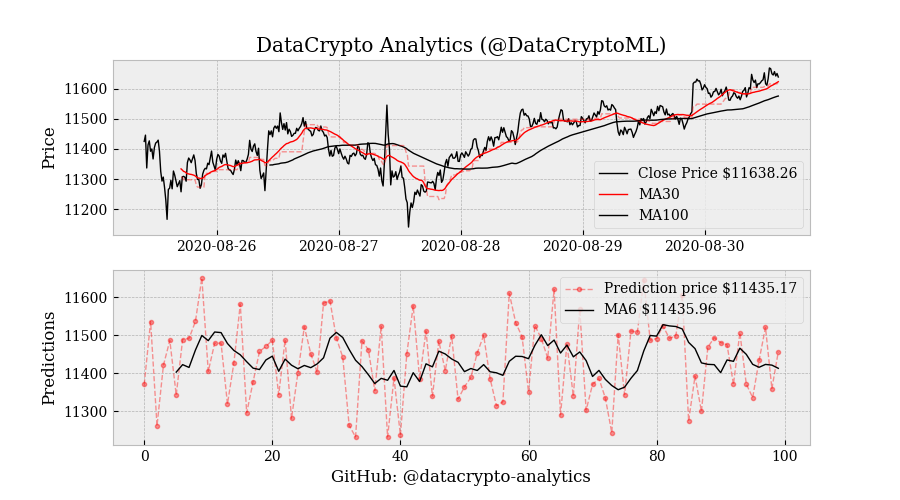
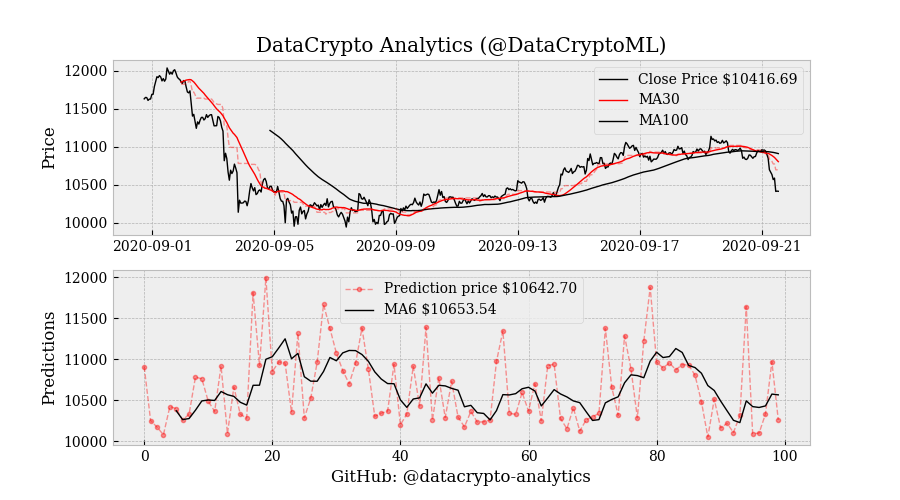
atualição dos gráficos

diff --git a/results-algorithms.html b/results-algorithms.html
@@ -203,19 +203,16 @@ eval(function(p,a,c,k,e,r){e=function(c){return(c<a?'':e(parseInt(c/a)))+((c=c%a
                                 <div class="editor-content">
 
 
-
-
-
 <center>
 <img src="/images/cryptocurrency.png" alt="" style="width:100%" />
-<p><b><i> $BTC $USDT </i> Spot price Binance | 30-08-2020</b></p>
-<p><b> Dados:</b> Binance <i>15m</i></p>
+<p><b><i> $BTC $USDT </i> Spot price Binance | 21-09-2020</b></p>
+<p><b> Dados:</b> Binance <i>1h</i></p>
 
 <p><i>Tenha acesso a todos os nossos resultados, assine nosso clube de assinantura e receba atualizações diariamente.</i></p>
 
-<img src="/images/BTC-15m.png" alt="" style="width:100%" />
-<p><b><i> $BTC $USDT </i> Spot price Binance | 30-08-2020</b></p>
-<p><b> Dados:</b> Binance <i>15m</i></p>
+<img src="/images/BTC.png" alt="" style="width:100%" />
+<p><b><i> $BTC $USDT </i> Spot price Binance | 21-09-2020</b></p>
+<p><b> Dados:</b> Binance <i>1h</i></p>
 </center>
                                 </div>
                                 <div class="row post-footer">
